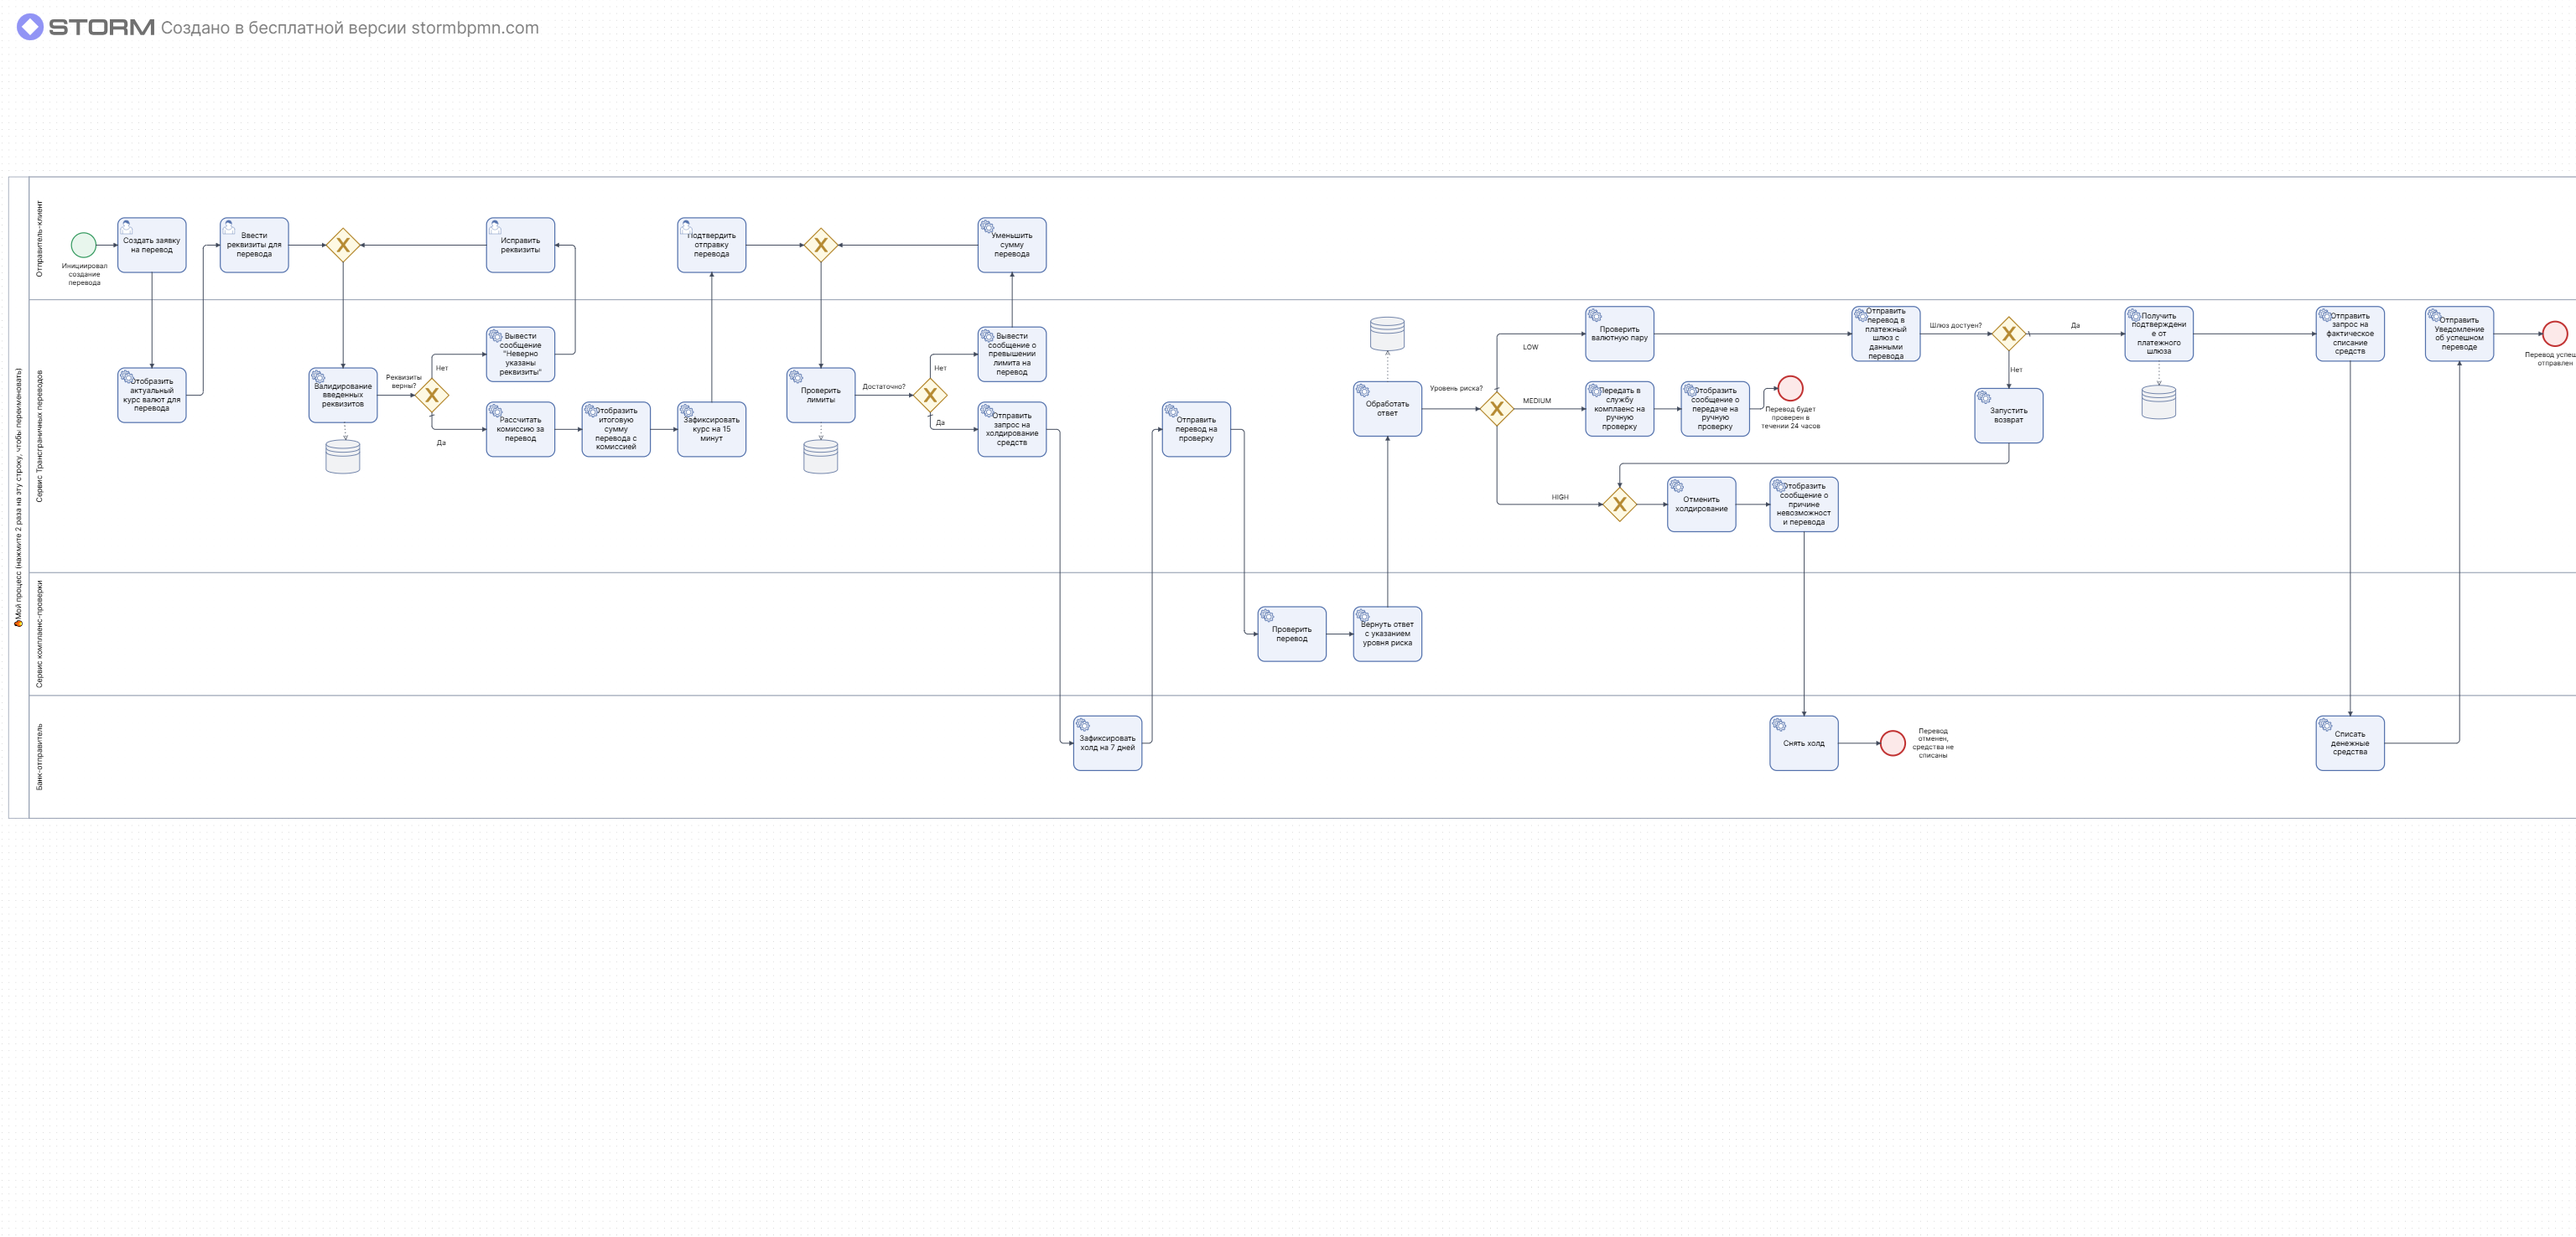
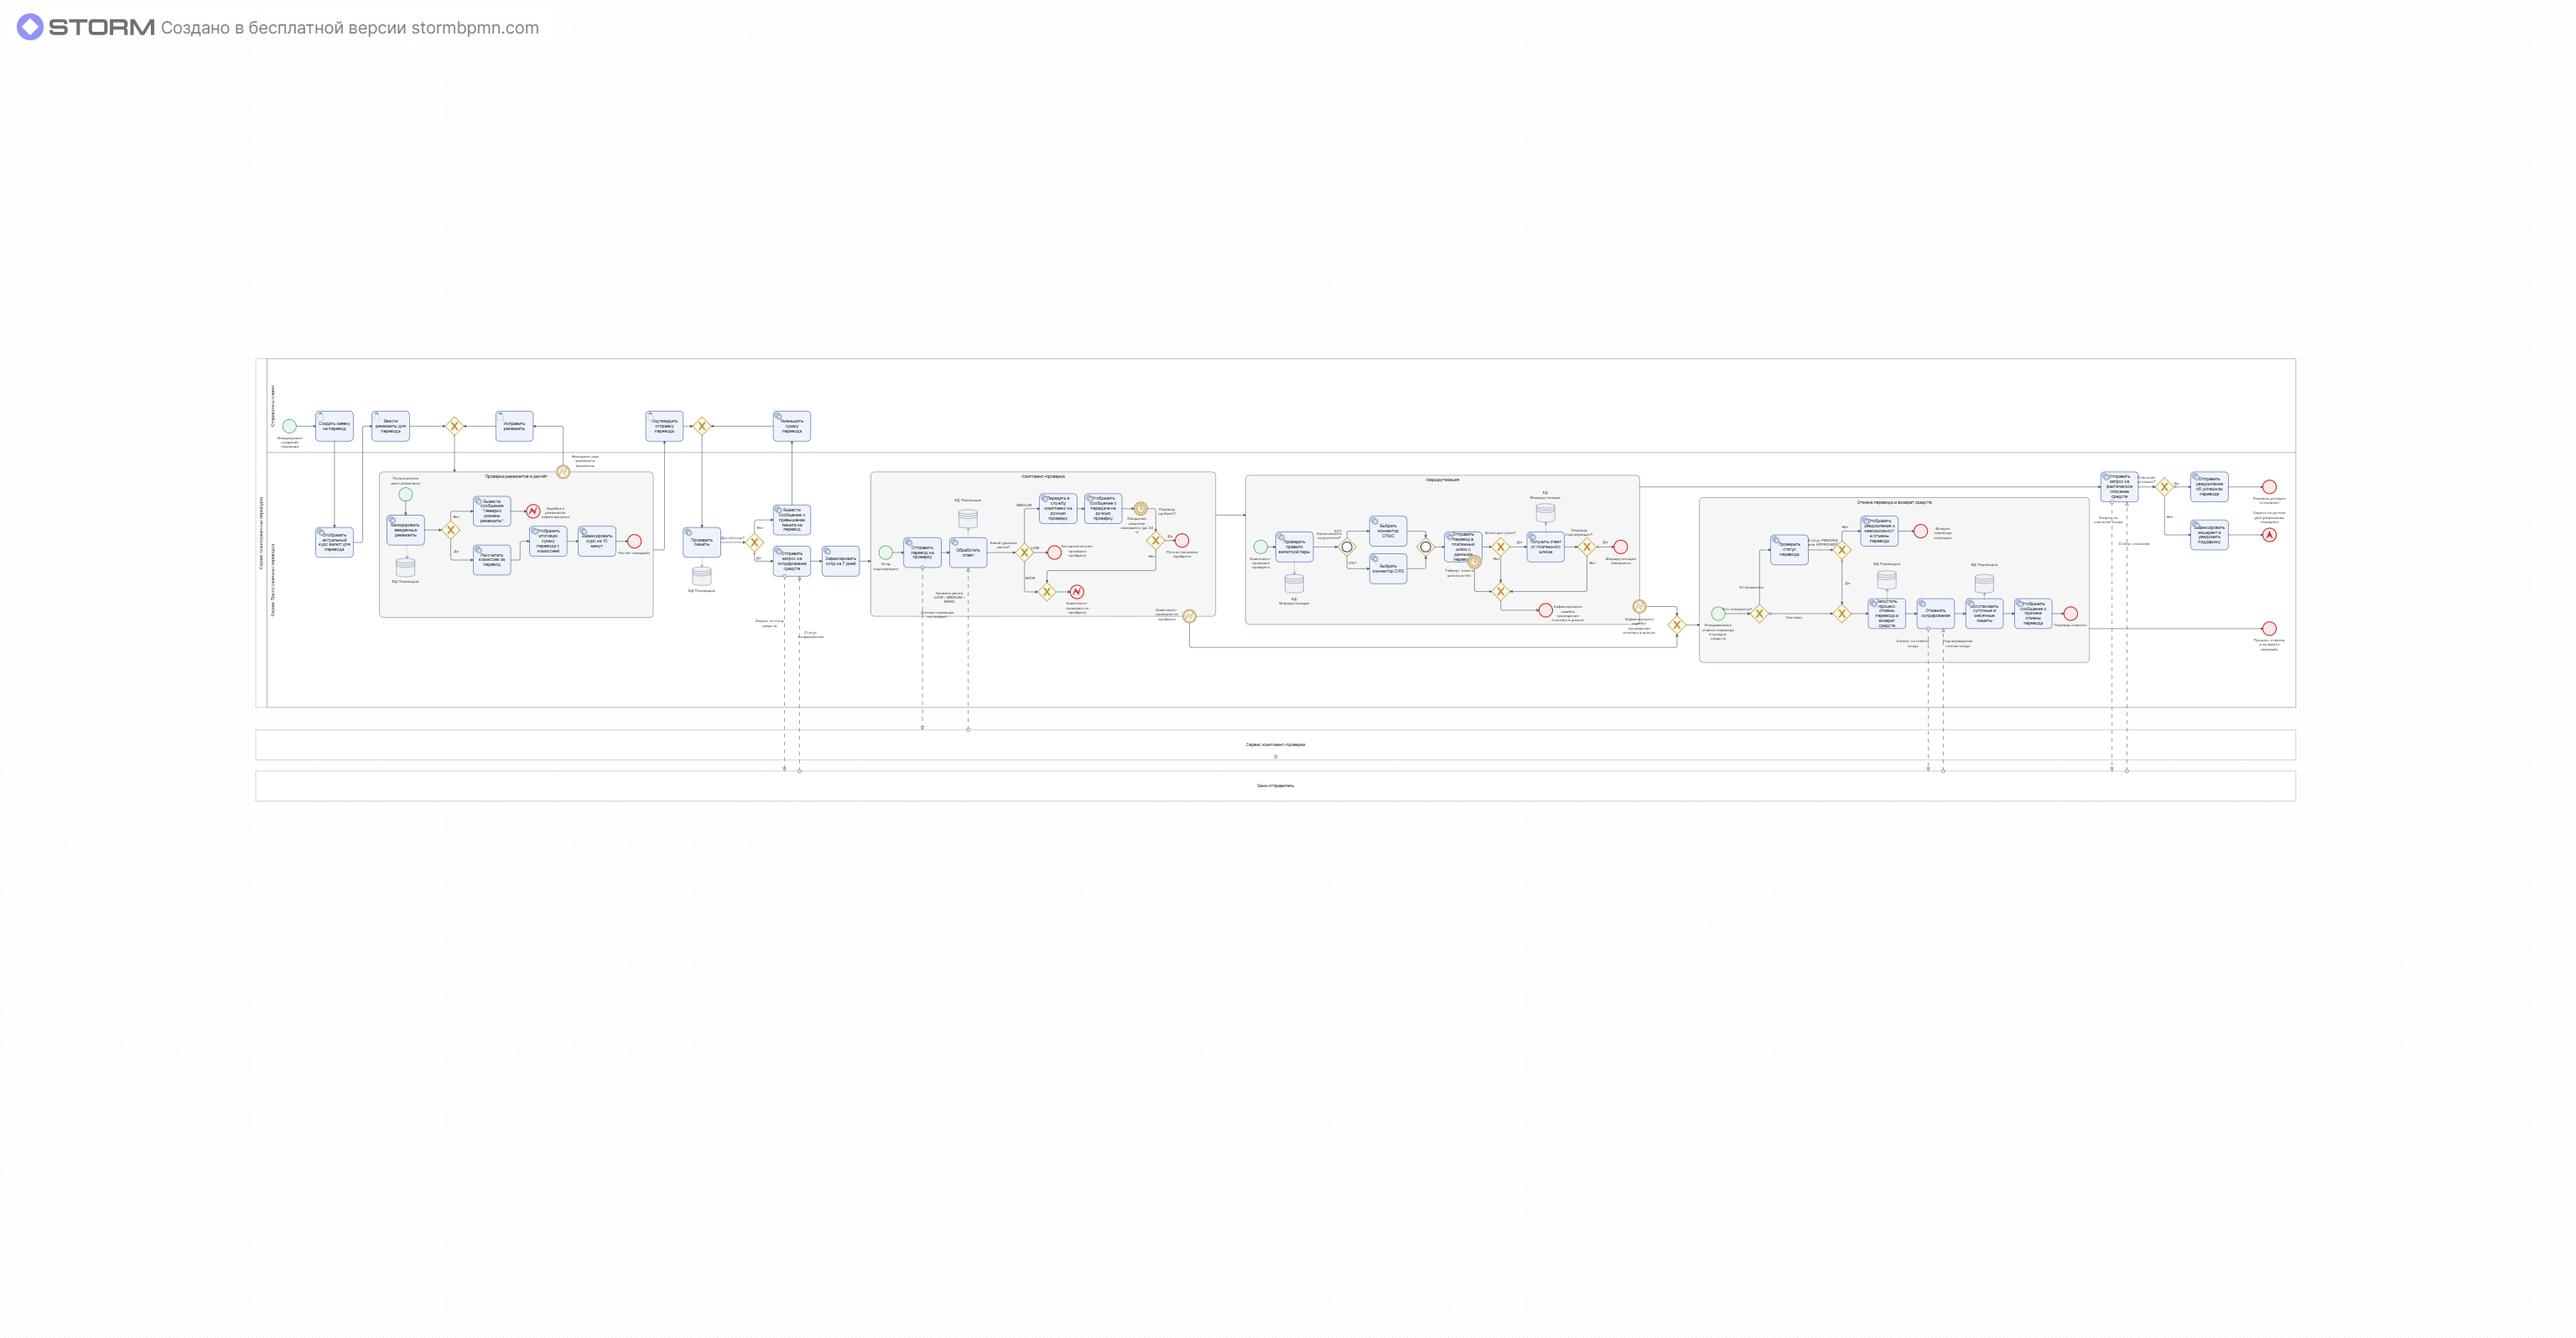
Доработать BPMN TO BE

diff --git a/01-requirements/ФТ.md b/01-requirements/ФТ.md
@@ -245,7 +245,7 @@
 **Альтернативный сценарий 11: Банк-отправитель недоступен**
 
 1. Система обнаруживает таймаут или ошибку соединения с банком
-2. Поскольку холд не установлен, запись о переводе в БД не создается. Ключ идемпотентности удаляется для возможности повтора
+2. Поскольку холд не установлен, запись о переводе в БД не создается
 3. Система возвращает ошибку 503 BANK_UNAVAILABLE
 4. Пользователь получает сообщение "Сервис временно недоступен, повторите попытку позже"
 5. Перевод не создается
@@ -362,6 +362,14 @@
 1. Система обнаруживает недопустимый переход (например, COMPLETED из BLOCKED)
 2. Система возвращает 409 Conflict
 3. Создается задача в поддержку для ручного разбора
+
+**Альтернативный сценарий 3: Ошибка фактического списания средств в Банке-отправителе**
+
+1. Платёжный шлюз прислал финальный вебхук со статусом COMPLETED (средства зачислены на корсчёт за рубежом), но при запросе на фактическое списание захолдированных средств Банк-отправитель вернул ошибку из-за технического сбоя или таймаута
+2. Система фиксирует ошибку списания и выполняет до 3 повторных попыток отправки запроса в Банк-отправитель с экспоненциальной задержкой
+3. Если списание успешно прошло на повторной попытке, система продолжает выполнение основного сценария
+4. Если все 3 попытки завершились неудачей система не запускает автоматический возврат, так как средства уже выплачены внешним шлюзом, сохраняет статус платежа COMPLETED для корректного отражения статуса исполнения во внешнем контуре, но фиксирует техническую пометку об инциденте расчётов, формируется алерт и задача на ручное урегулирование в службу финансового мониторинга и поддержки банка
+5. Сценарий завершается
 
 **Постусловия:**
 
